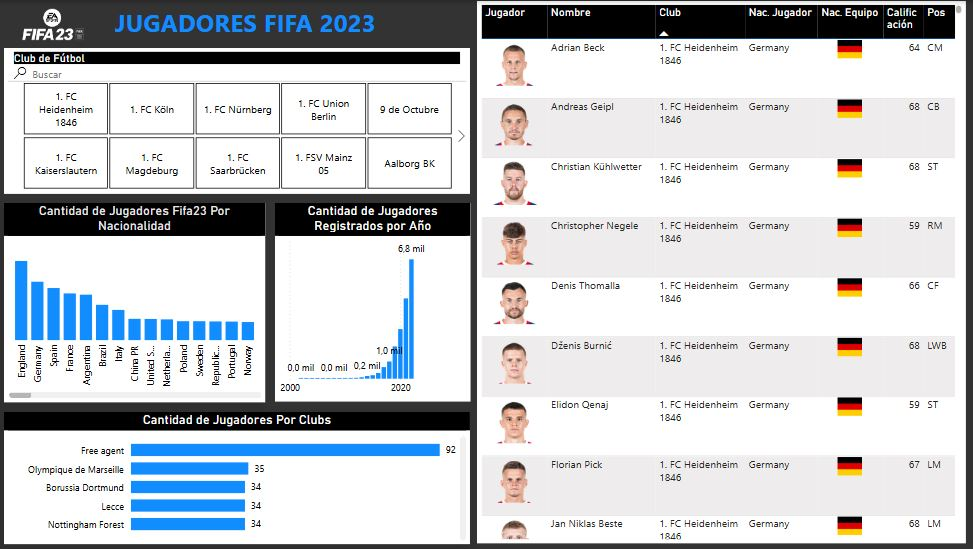
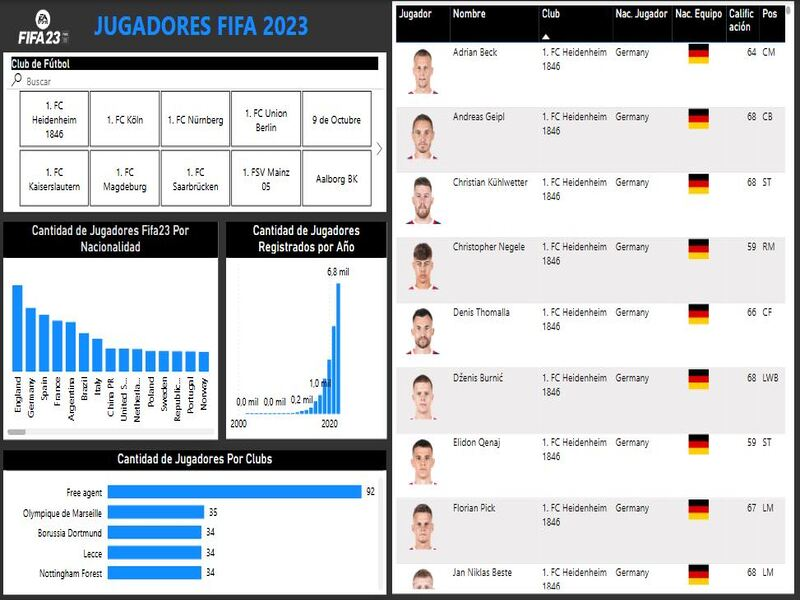
Redimensión de imagenes y actualizacion de nuevo proyecto.

diff --git a/proyectos.html b/proyectos.html
@@ -382,6 +382,27 @@
             </div>
           </div>
 
+          <!-- Project 15 -->
+          
+          <div class="project-card" data-category="powerbi" id="proy15">
+            <div class="project-image">
+              <img src="img/p15.jpg" alt="TiempoAtención"/>
+              <a href="https://1drv.ms/u/c/52ef691228217853/Ec05nbe0d0xBmzRxt2FC250BEtUA2V3YxPUZnq25JSCaIA?e=MDxdRb" target="_blank">
+              <div class="project-type">Ver</div></a>
+            </div>
+          </a>
+            <div class="project-info">
+              <h3 class="project-title">Tiempo de Atención en Ventanilla</h3>
+              <p class="project-description">
+                Se requiere mejorar los tiempos de atención al cliente en ventanilla ya que se ha visto afectado por la implementación de un nuevo sistema de atención, para ello se ha recolectado información como la sucursal, el tiempo de servicio medido en segundos, el nivel de satisfacción del cliente, el monto de las transacciónes realizadas y los datos demográficos de los cajeros.
+              </p>
+              <div class="tech-stack">
+                <span class="tech-badge">Power BI</span>
+                <span class="tech-badge">Análisis de Datos</span>
+              </div>
+            </div>
+          </div>
+
 
 
         </div>

diff --git a/index.html b/index.html
@@ -341,6 +341,17 @@
       <div class="contenido-seccion">
         <h2>Proyectos</h2>
         <div class="galeria">
+
+          <a href="proyectos.html#proy15">
+            <div class="proyecto">
+              <img src="img/p15.jpg" alt="TiempodeAtención"/>
+              <div class="overlay">
+                <h3>Análisis del Tiempo de Atención al Cliente</h3>
+                <p>Análisis de Datos - Power BI</p>
+              </div>
+            </div>
+          </a>
+
           <a href="proyectos.html#proy1">
             <div class="proyecto">
               <img src="img/p1.jpg" alt="ModeloUCE1"/>
@@ -351,6 +362,7 @@
             </div>
           </a>
           
+          <!--
           <a href="proyectos.html#proy2">
           <div class="proyecto">
             <img src="img/p2.jpg" alt="Derrame_Petróleo"/>
@@ -359,7 +371,7 @@
               <p>EDP's</p>
             </div>
           </div>
-          </a>
+          </a>-->
 
           <a href="proyectos.html#proy3">
           <div class="proyecto">
